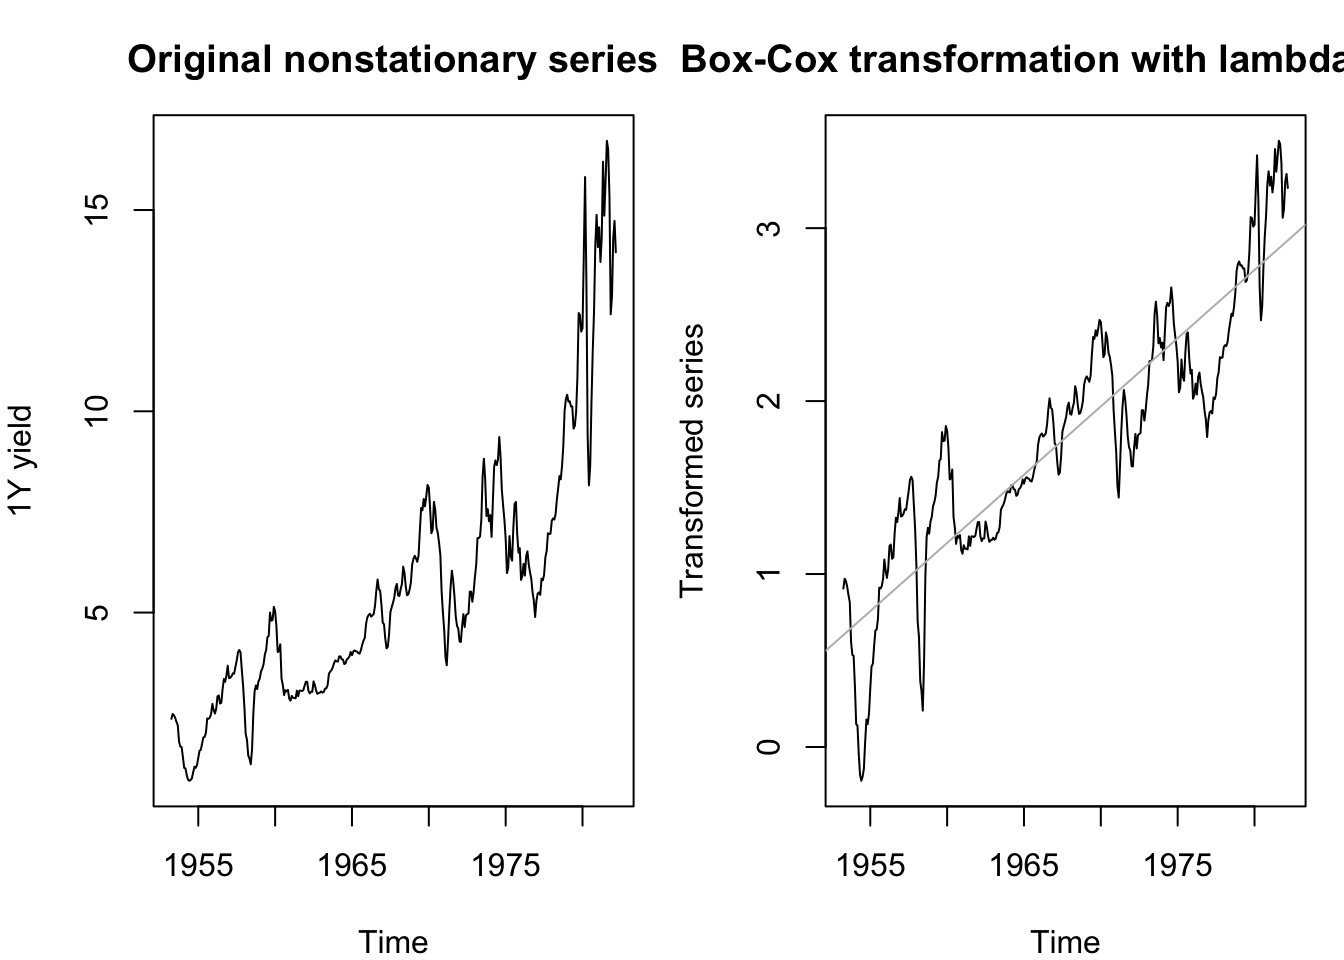
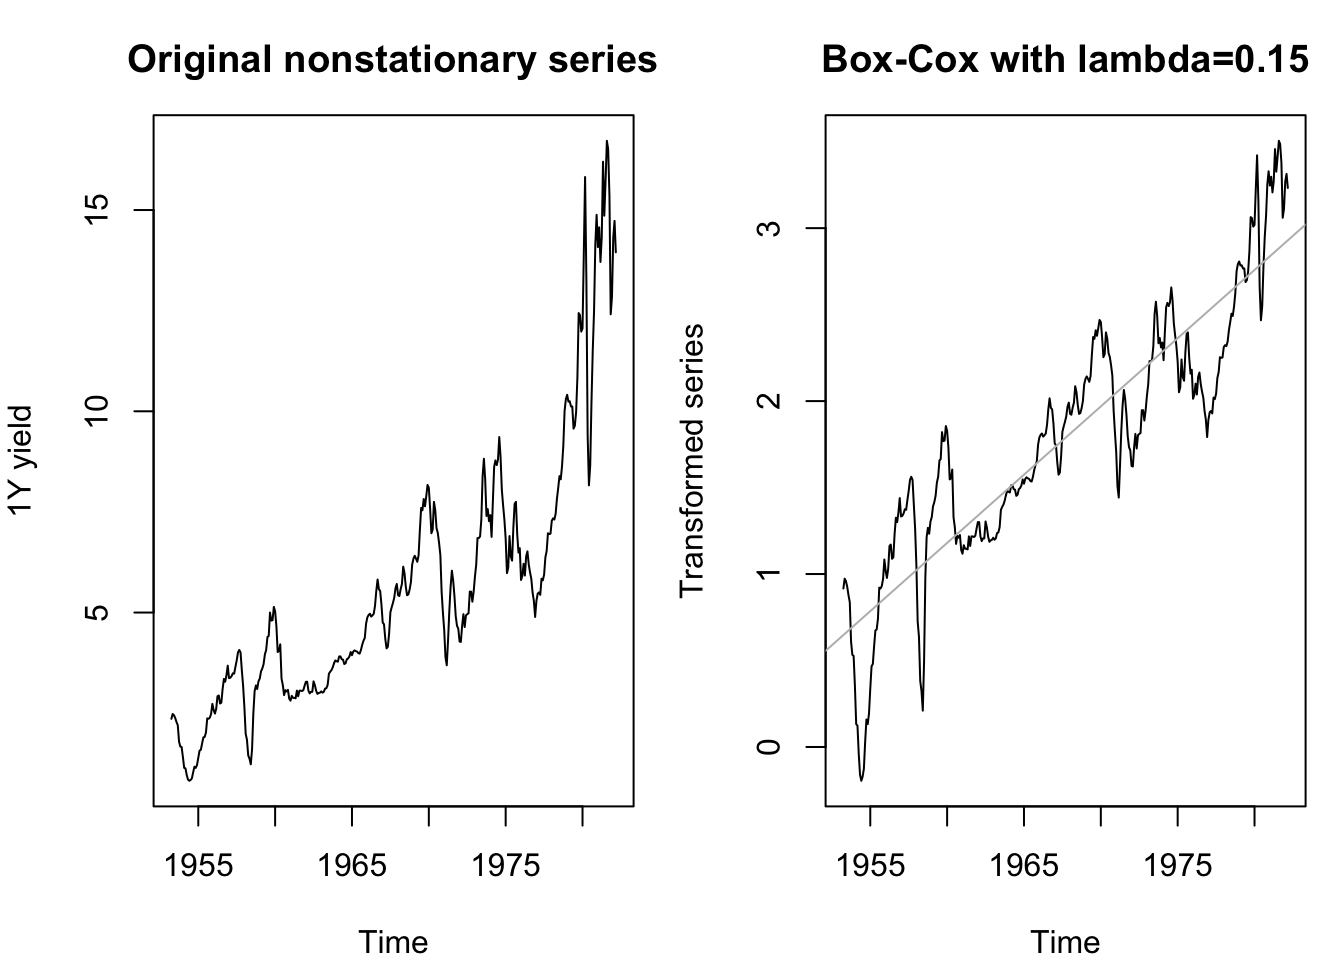
Built site for gh-pages

Changed region(s): [[0.5, 0.0312, 1.0, 0.0938]]

diff --git a/stationarity.html b/stationarity.html
@@ -469,7 +469,7 @@ Note
 <span id="cb5-2"><a href="#cb5-2" aria-hidden="true" tabindex="-1"></a>yields <span class="ot">&lt;-</span> <span class="fu">window</span>(tcm1y,<span class="at">end=</span><span class="fl">1982.24</span>)</span>
 <span id="cb5-3"><a href="#cb5-3" aria-hidden="true" tabindex="-1"></a><span class="fu">par</span>(<span class="at">mfrow=</span><span class="fu">c</span>(<span class="dv">1</span>,<span class="dv">2</span>),<span class="at">mar=</span><span class="fu">c</span>(<span class="dv">4</span>, <span class="dv">4</span>, <span class="dv">3</span>, <span class="dv">1</span>))</span>
 <span id="cb5-4"><a href="#cb5-4" aria-hidden="true" tabindex="-1"></a><span class="fu">plot</span>(yields,<span class="at">ylab=</span><span class="st">'1Y yield'</span>,<span class="at">main=</span><span class="st">'Original nonstationary series'</span>)</span>
-<span id="cb5-5"><a href="#cb5-5" aria-hidden="true" tabindex="-1"></a><span class="fu">plot</span>(<span class="fu">box_cox</span>(yields,<span class="fl">0.15</span>),<span class="at">ylab=</span><span class="st">'Transformed series'</span>,<span class="at">main=</span><span class="st">'Box-Cox transformation with lambda=0.15'</span>)</span>
+<span id="cb5-5"><a href="#cb5-5" aria-hidden="true" tabindex="-1"></a><span class="fu">plot</span>(<span class="fu">box_cox</span>(yields,<span class="fl">0.15</span>),<span class="at">ylab=</span><span class="st">'Transformed series'</span>,<span class="at">main=</span><span class="st">'Box-Cox with lambda=0.15'</span>)</span>
 <span id="cb5-6"><a href="#cb5-6" aria-hidden="true" tabindex="-1"></a><span class="fu">abline</span>(<span class="at">reg=</span><span class="fu">lm</span>(<span class="fu">box_cox</span>(yields,<span class="fl">0.15</span>)<span class="sc">~</span><span class="fu">time</span>(yields)),<span class="at">col=</span><span class="st">'#bbbbbb'</span>)</span></code></pre></div><button title="Copy to Clipboard" class="code-copy-button"><i class="bi"></i></button></div>
 </details>
 <div class="cell-output-display">
